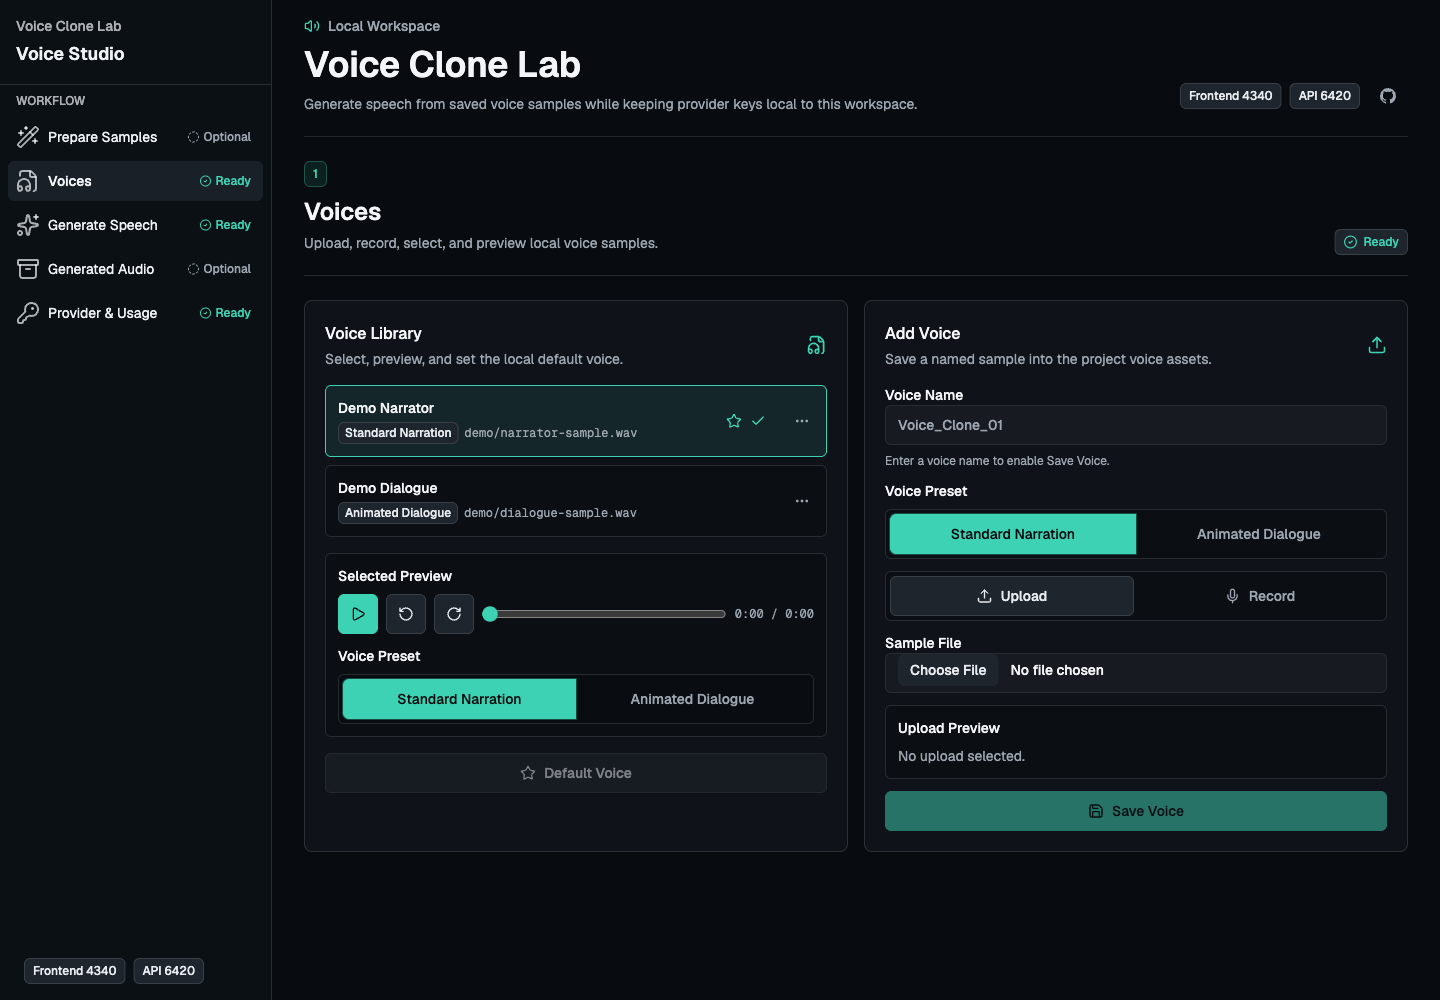
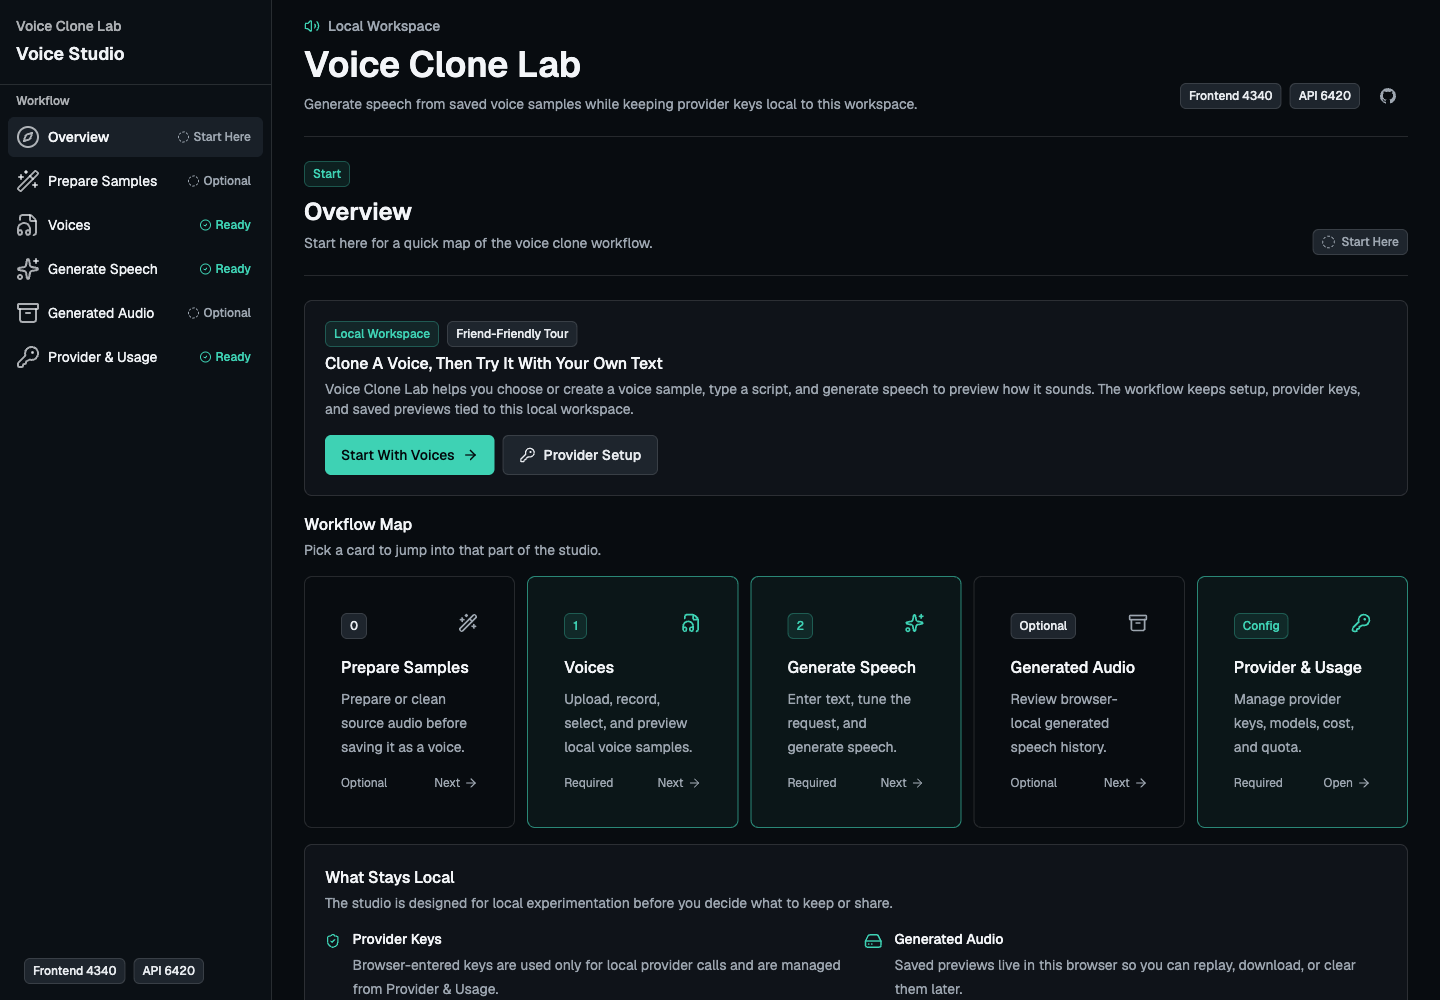
Refresh overview workflow screenshots

diff --git a/docs/assets/README.md b/docs/assets/README.md
@@ -8,8 +8,8 @@ Follow the canonical [Public Media Guidelines](../PUBLIC_MEDIA.md) before adding
 
 ## Current Assets
 
-- `voice-studio-desktop.png`: desktop capture of the Voice Studio `Voices` section with mocked demo data, workflow sidebar, voice preset controls, and Add Voice controls, 1440 x 1000, about 131 KB.
-- `voice-studio-mobile.png`: mobile capture of the public-safe workflow navigation sheet, 390 x 1000, about 39 KB.
+- `voice-studio-desktop.png`: desktop capture of the Voice Studio `Overview` section with public-safe workflow map cards and local workspace notes, 1440 x 1000.
+- `voice-studio-mobile.png`: mobile capture of the public-safe workflow navigation sheet with the Overview section active, 390 x 1000.
 
 ## Refresh Checklist
 

diff --git a/docs/PUBLIC_MEDIA.md b/docs/PUBLIC_MEDIA.md
@@ -4,7 +4,8 @@ This repository is public-safe by default. Screenshots and other documentation m
 
 ## Good Screenshot Subjects
 
-- The Voice Studio `Voices` landing section with sanitized demo voice names.
+- The Voice Studio `Overview` landing section with public-safe workflow map cards.
+- The Voice Studio `Voices` section with sanitized demo voice names.
 - The mobile workflow sheet showing sidebar navigation labels and status indicators.
 - Provider key controls with masked or empty values only.
 - Cost and quota panels using demo quota numbers, not a real account.

diff --git a/README.md b/README.md
@@ -2,7 +2,7 @@
 
 Voice Clone Lab is a local-first voice studio for experimenting with provider-backed voice cloning from your own browser. It gives you a sidebar workflow for preparing samples, managing voices, generating speech, reviewing generated audio, and keeping provider keys plus usage controls in one local workspace.
 
-![Screenshot of the Voice Clone Lab desktop Voice Studio showing the workflow sidebar, the Voices section, Demo Narrator and Demo Dialogue sample cards, voice preset controls, and the Add Voice panel.](docs/assets/voice-studio-desktop.png)
+![Screenshot of the Voice Clone Lab desktop Voice Studio showing the workflow sidebar, the Overview landing section, intro copy, workflow map cards, and local workspace notes.](docs/assets/voice-studio-desktop.png)
 
 Public-safe demo screenshot: this capture uses mocked data and does not include real API keys, voice samples, generated audio files, or account details. A mobile workflow navigation capture is available in [docs/assets/voice-studio-mobile.png](docs/assets/voice-studio-mobile.png).
 